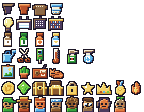
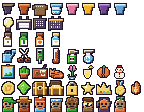
Pase: premios exclusivos por temporada (decoración, maceta y título)
Decoración en el nivel 10, marco en el 15, maceta en el 20, semilla en el 25 y título en el 30
de la pista especial. Cuatro macetas y cuatro decoraciones nuevas en pixel-art.

Claude-Session: https://claude.ai/code/session_01SERVDvz3oZ1n9KakjwQoCb

diff --git a/src/lib/tienda.ts b/src/lib/tienda.ts
@@ -13,6 +13,8 @@ export interface ObjetoTienda {
   nivel: number;
   /** Columna y fila del icono en la hoja de objetos. */
   celda: [number, number];
+  /** Solo se consigue en el pase de temporada: no se vende en la tienda ni en el mercado. */
+  exclusivo?: boolean;
 }
 
 export const CATEGORIAS: { id: CategoriaTienda; etiqueta: string }[] = [
@@ -234,6 +236,94 @@ export const CATALOGO: ObjetoTienda[] = [
     precio: 1500,
     nivel: 10,
     celda: [3, 4],
+  },
+  {
+    id: "maceta_primavera",
+    categoria: "macetas",
+    tipo: "maceta",
+    nombre: "Maceta de primavera",
+    efecto: "Exclusiva del pase de temporada de primavera.",
+    precio: -1,
+    nivel: 1,
+    celda: [4, 0],
+    exclusivo: true,
+  },
+  {
+    id: "deco_primavera",
+    categoria: "decoracion",
+    tipo: "decoracion",
+    nombre: "Tulipán de primavera",
+    efecto: "Exclusiva del pase de temporada de primavera.",
+    precio: -1,
+    nivel: 1,
+    celda: [4, 4],
+    exclusivo: true,
+  },
+  {
+    id: "maceta_verano",
+    categoria: "macetas",
+    tipo: "maceta",
+    nombre: "Maceta de verano",
+    efecto: "Exclusiva del pase de temporada de verano.",
+    precio: -1,
+    nivel: 1,
+    celda: [5, 0],
+    exclusivo: true,
+  },
+  {
+    id: "deco_verano",
+    categoria: "decoracion",
+    tipo: "decoracion",
+    nombre: "Limonada de verano",
+    efecto: "Exclusiva del pase de temporada de verano.",
+    precio: -1,
+    nivel: 1,
+    celda: [5, 4],
+    exclusivo: true,
+  },
+  {
+    id: "maceta_otono",
+    categoria: "macetas",
+    tipo: "maceta",
+    nombre: "Maceta de otoño",
+    efecto: "Exclusiva del pase de temporada de otoño.",
+    precio: -1,
+    nivel: 1,
+    celda: [6, 0],
+    exclusivo: true,
+  },
+  {
+    id: "deco_otono",
+    categoria: "decoracion",
+    tipo: "decoracion",
+    nombre: "Calabaza de otoño",
+    efecto: "Exclusiva del pase de temporada de otoño.",
+    precio: -1,
+    nivel: 1,
+    celda: [6, 4],
+    exclusivo: true,
+  },
+  {
+    id: "maceta_invierno",
+    categoria: "macetas",
+    tipo: "maceta",
+    nombre: "Maceta de invierno",
+    efecto: "Exclusiva del pase de temporada de invierno.",
+    precio: -1,
+    nivel: 1,
+    celda: [7, 0],
+    exclusivo: true,
+  },
+  {
+    id: "deco_invierno",
+    categoria: "decoracion",
+    tipo: "decoracion",
+    nombre: "Muñeco de nieve",
+    efecto: "Exclusiva del pase de temporada de invierno.",
+    precio: -1,
+    nivel: 1,
+    celda: [7, 4],
+    exclusivo: true,
   },
 ];
 

diff --git a/src/components/Pase.tsx b/src/components/Pase.tsx
@@ -1,8 +1,10 @@
 "use client";
 
 import { marco } from "@/lib/diseno";
+import { OBJETO_POR_ID } from "@/lib/tienda";
 import type { DatosPase, PremioPase } from "@/lib/temporada";
 import { Icono } from "./Icono";
+import { IconoObjeto } from "./IconoObjeto";
 import { IconoSocial } from "./IconoSocial";
 import styles from "./progresion.module.css";
 
@@ -16,7 +18,10 @@ interface Props {
 
 const miles = (n: number) => n.toLocaleString("es-ES", { useGrouping: "always" });
 
-function IconoPremio({ tipo }: { tipo: PremioPase["tipo"] }) {
+function IconoPremio({ tipo, id }: { tipo: PremioPase["tipo"]; id?: string }) {
+  const objeto = id ? OBJETO_POR_ID[id] : null;
+  if ((tipo === "maceta" || tipo === "decoracion") && objeto)
+    return <IconoObjeto celda={objeto.celda} tamano={32} k={0.75} />;
   if (tipo === "monedas") return <Icono id="moneda" k={2} />;
   if (tipo === "xp") return <Icono id="nivel" k={2} />;
   if (tipo === "objeto") return <Icono id="nutrientes" k={2} />;
@@ -40,7 +45,7 @@ function Premio({ p, ocupado, alReclamar }: { p: PremioPase; ocupado: boolean; a
       disabled={!listo || ocupado}
       onClick={alReclamar}
     >
-      <IconoPremio tipo={p.tipo} />
+      <IconoPremio tipo={p.tipo} id={p.id} />
       <span>{listo ? `Reclamar: ${p.etq}` : p.estado === "reclamado" ? "✓ " + p.etq : p.etq}</span>
     </button>
   );

diff --git a/src/lib/progresion.ts b/src/lib/progresion.ts
@@ -131,6 +131,15 @@ export const TITULOS: { categoria: string; titulos: Titulo[] }[] = [
       { id: "enciclopedia", nombre: "Enciclopedia viviente", requisito: "100 % de la colección" },
     ],
   },
+  {
+    categoria: "Temporada",
+    titulos: [
+      { id: "ts_primavera", nombre: "Alma de primavera", requisito: "Nivel 30 del pase de primavera (pista especial)" },
+      { id: "ts_verano", nombre: "Hijo del verano", requisito: "Nivel 30 del pase de verano (pista especial)" },
+      { id: "ts_otono", nombre: "Guardián del otoño", requisito: "Nivel 30 del pase de otoño (pista especial)" },
+      { id: "ts_invierno", nombre: "Corazón de invierno", requisito: "Nivel 30 del pase de invierno (pista especial)" },
+    ],
+  },
 ];
 
 export const TITULO_POR_ID: Record<string, Titulo> = Object.fromEntries(

diff --git a/src/components/Planta.tsx b/src/components/Planta.tsx
@@ -19,6 +19,10 @@ const COLUMNA_MACETA: Record<string, number> = {
   maceta_terracota: 1,
   maceta_tela: 2,
   maceta_ceramica: 3,
+  maceta_primavera: 4,
+  maceta_verano: 5,
+  maceta_otono: 6,
+  maceta_invierno: 7,
 };
 
 interface Props {
@@ -78,7 +82,7 @@ export function Planta({ fase, estado, tamano = 1, variedad = "clasica", maceta 
         aria-hidden
         style={{
           backgroundImage: "url(/assets/sprites/tpp-macetas-1x.png)",
-          backgroundSize: `calc(${4 * CELDA}px * var(--s)) calc(${CELDA}px * var(--s))`,
+          backgroundSize: `calc(${8 * CELDA}px * var(--s)) calc(${CELDA}px * var(--s))`,
           backgroundPosition: `calc(${-columnaMaceta * CELDA}px * var(--s)) 0`,
         }}
       />

diff --git a/src/components/Inventario.tsx b/src/components/Inventario.tsx
@@ -95,7 +95,7 @@ export function Inventario({ perfil, plantas, ocupado, alIrAHueco, alAmpliar, al
                       width: 128,
                       height: 128,
                       backgroundImage: "url(/assets/sprites/tpp-macetas-1x.png)",
-                      backgroundSize: "512px 128px",
+                      backgroundSize: "1024px 128px",
                       backgroundPosition: "-128px 0",
                     }}
                   />

diff --git a/src/components/Decoracion.tsx b/src/components/Decoracion.tsx
@@ -7,6 +7,10 @@ const POSICIONES: Record<string, { x: number; y: number }> = {
   poster: { x: 30, y: 14 },
   planta_adorno: { x: 76, y: 62 },
   radio: { x: 80, y: 28 },
+  deco_primavera: { x: 62, y: 12 },
+  deco_verano: { x: 6, y: 62 },
+  deco_otono: { x: 22, y: 62 },
+  deco_invierno: { x: 60, y: 62 },
 };
 
 /** Objetos de decoración puestos en la escena, a 16 px nativos. */

diff --git a/src/components/Tienda.tsx b/src/components/Tienda.tsx
@@ -150,7 +150,7 @@ export function Tienda(props: Props) {
         ))}
       </div>
       <div className={styles.rejilla}>
-        {CATALOGO.filter((o) => o.categoria === categoria).map((o) => (
+        {CATALOGO.filter((o) => o.categoria === categoria && !o.exclusivo).map((o) => (
           <Tarjeta key={o.id} objeto={o} {...props} />
         ))}
       </div>

diff --git a/src/components/SelectorHuecos.tsx b/src/components/SelectorHuecos.tsx
@@ -45,7 +45,7 @@ function MiniPlanta({
         className="pixel"
         style={{
           backgroundImage: "url(/assets/sprites/tpp-macetas-1x.png)",
-          backgroundSize: `${4 * MINI}px ${MINI}px`,
+          backgroundSize: `${8 * MINI}px ${MINI}px`,
           backgroundPosition: `${-Math.max(0, columnaMaceta) * MINI}px 0`,
         }}
       />

diff --git a/src/lib/temporada.ts b/src/lib/temporada.ts
@@ -25,7 +25,8 @@ export interface DatosEventos {
 }
 
 export interface PremioPase {
-  tipo: "monedas" | "xp" | "objeto" | "semilla" | "marco";
+  tipo: "monedas" | "xp" | "objeto" | "semilla" | "marco" | "maceta" | "decoracion" | "titulo";
+  id?: string;
   etq: string;
   estado: "reclamado" | "listo" | "futuro" | "bloqueado";
 }
